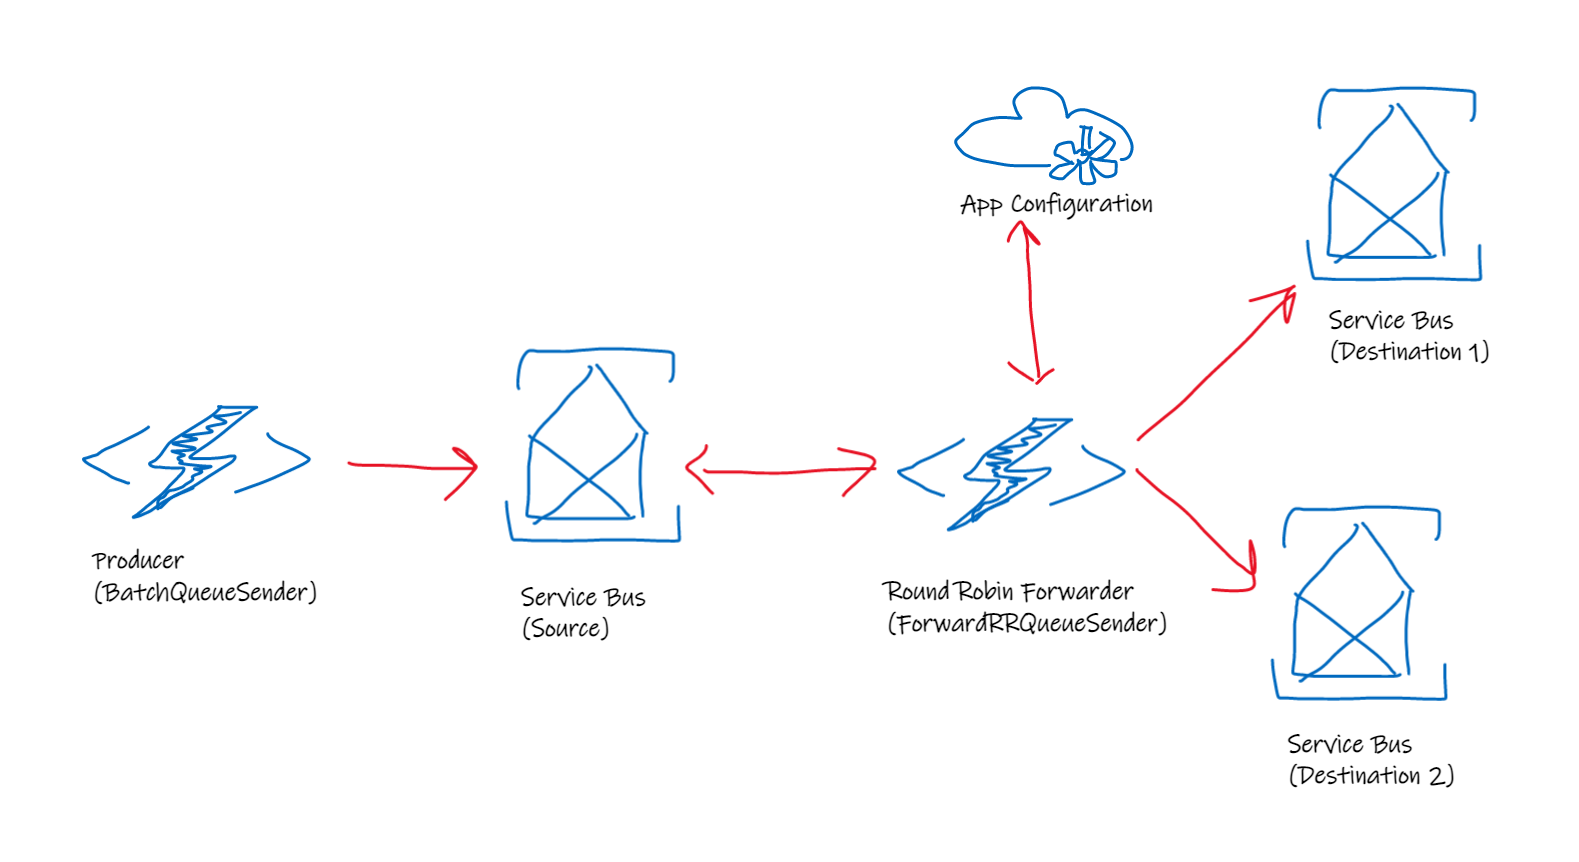
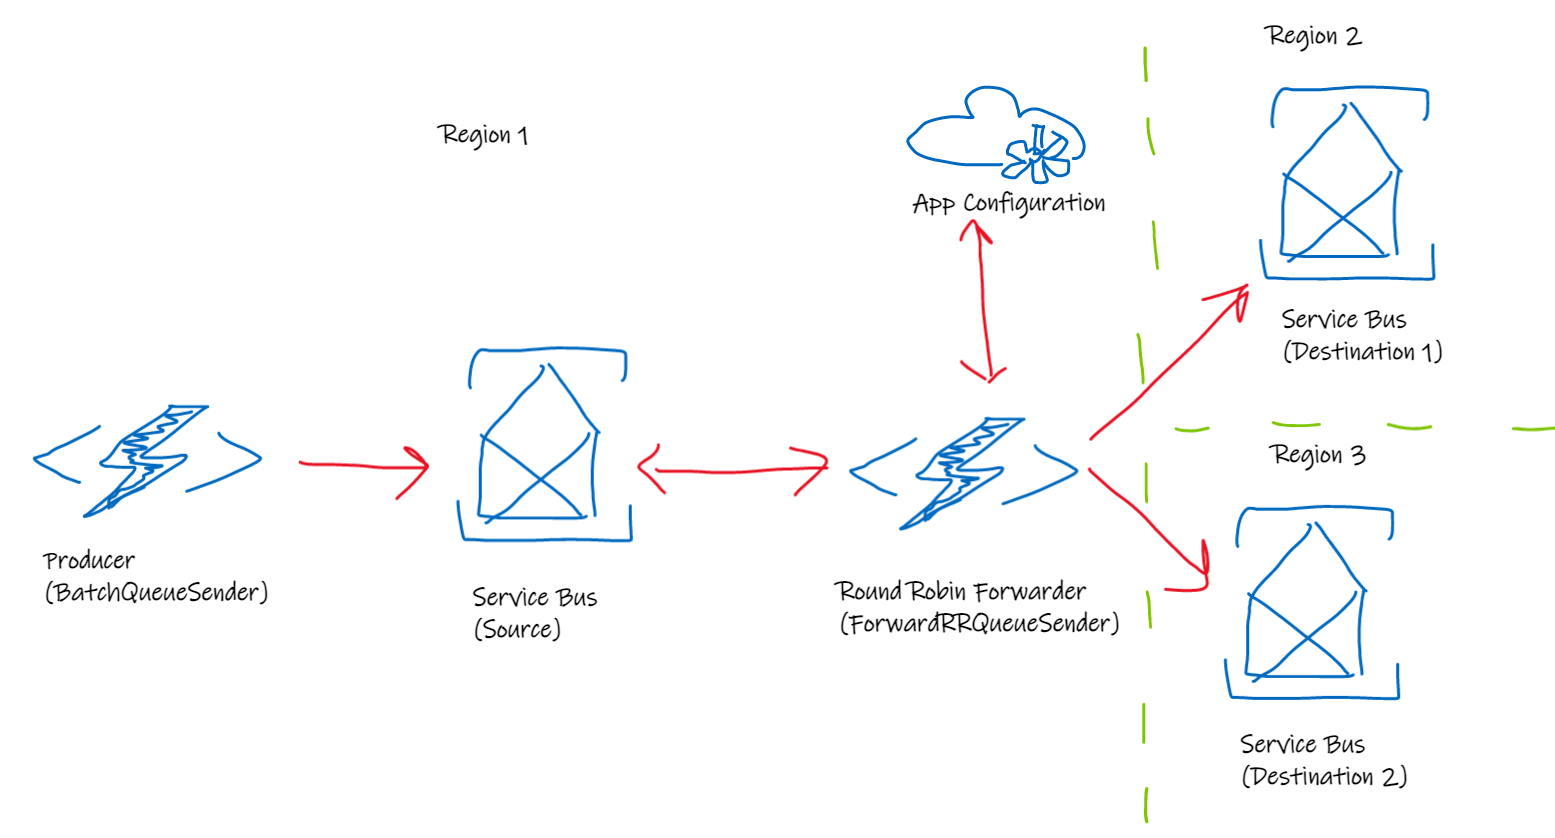
updated diagram and additional links to concepts of replication of messages

diff --git a/README.md b/README.md
@@ -1,12 +1,19 @@
-# ServiceBus-Load-Balancing
-Load balancing messages across Azure Service Bus namespaces in different regions.
+# Azure ServiceBus Load Balancing
+This demonstration show how to load balancing messages across Azure Service Bus namespaces in different regions.The use case is to be able to have active/active downstream message processing components for high avaialbility. The concepts in this demo are based on the [Azure Service Bus Cross Region Federation recommendations](https://docs.microsoft.com/en-us/azure/service-bus-messaging/service-bus-federation-overview). Instead of replicating the messages to different regions, this demo routes the messages in a round robin fashion. This demo assumes that the ordering of the incoming messages is not relevant for our use case. 
+
+## Requirements and Assumptions
+1. Ordering of the incoming messages is not relevant.
+1. The source metadata such as sequence number, enqueued time ans so on are not important for downstream consumers. If you need the metadata then leverage the [utility library provided](https://github.com/Azure-Samples/azure-messaging-replication-dotnet/tree/main/src/Azure.Messaging.Replication).
 
 ## Architecture
 
-Below is a sketch of the proposed solution for load balancing messages across Azure Service bus namespaces. The namespaces can be in different regions.
+Below is a sketch of the proposed solution for load balancing messages across Azure Service bus namespaces in different regions.
 
 ![](/images/s1.png)
 
 ## Deployment Steps
 
 TBD
+
+## Disclaimer
+The code and deployment biceps are to be used for demonstration pusposes only. The code is not enterprise ready code and is not intended for production use.
